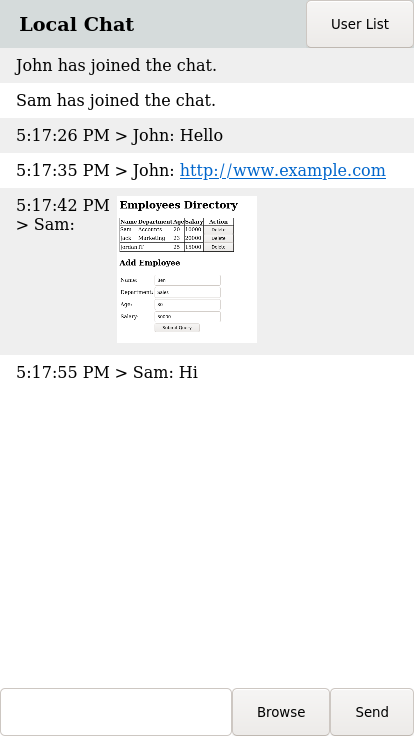
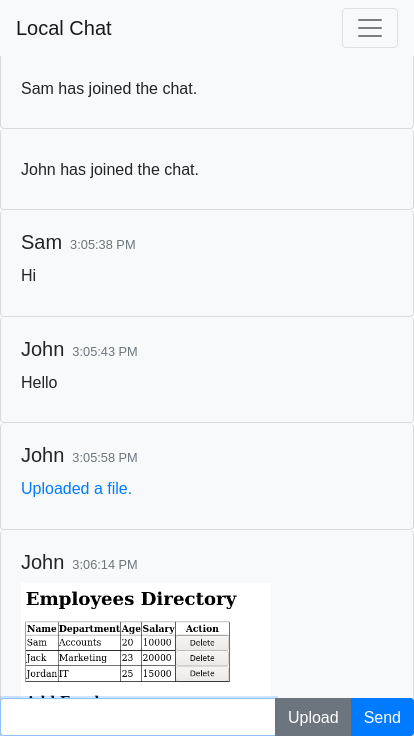
Updated README.md

diff --git a/README.md b/README.md
@@ -1,14 +1,16 @@
 # local-chat
 
-A minimal chat application built using Node and Express. The front-end is written in HTML, CSS, and JavaScript.
+A minimal chat application built using Node and Express. The front-end is written in React.
 
 ## Installation
 
 1. `git clone https://github.com/sarthakgaur/local-chat`
-2. `cd local-chat`
+2. `cd local-chat/backend`
 3. `npm install`
-4. `node index.js`
-5. Open `http://localhost:3000` in your browser
+4. `node app.js`
+5. `cd local-chat/frontend`
+6. `npm install`
+7. `npm start`
 
 ## Features
 
@@ -22,4 +24,4 @@ A minimal chat application built using Node and Express. The front-end is writte
 
 ## Image
 
-![Screen Shot](/public/images/client2.png)
+![Screen Shot](/backend/public/images/client.png)
